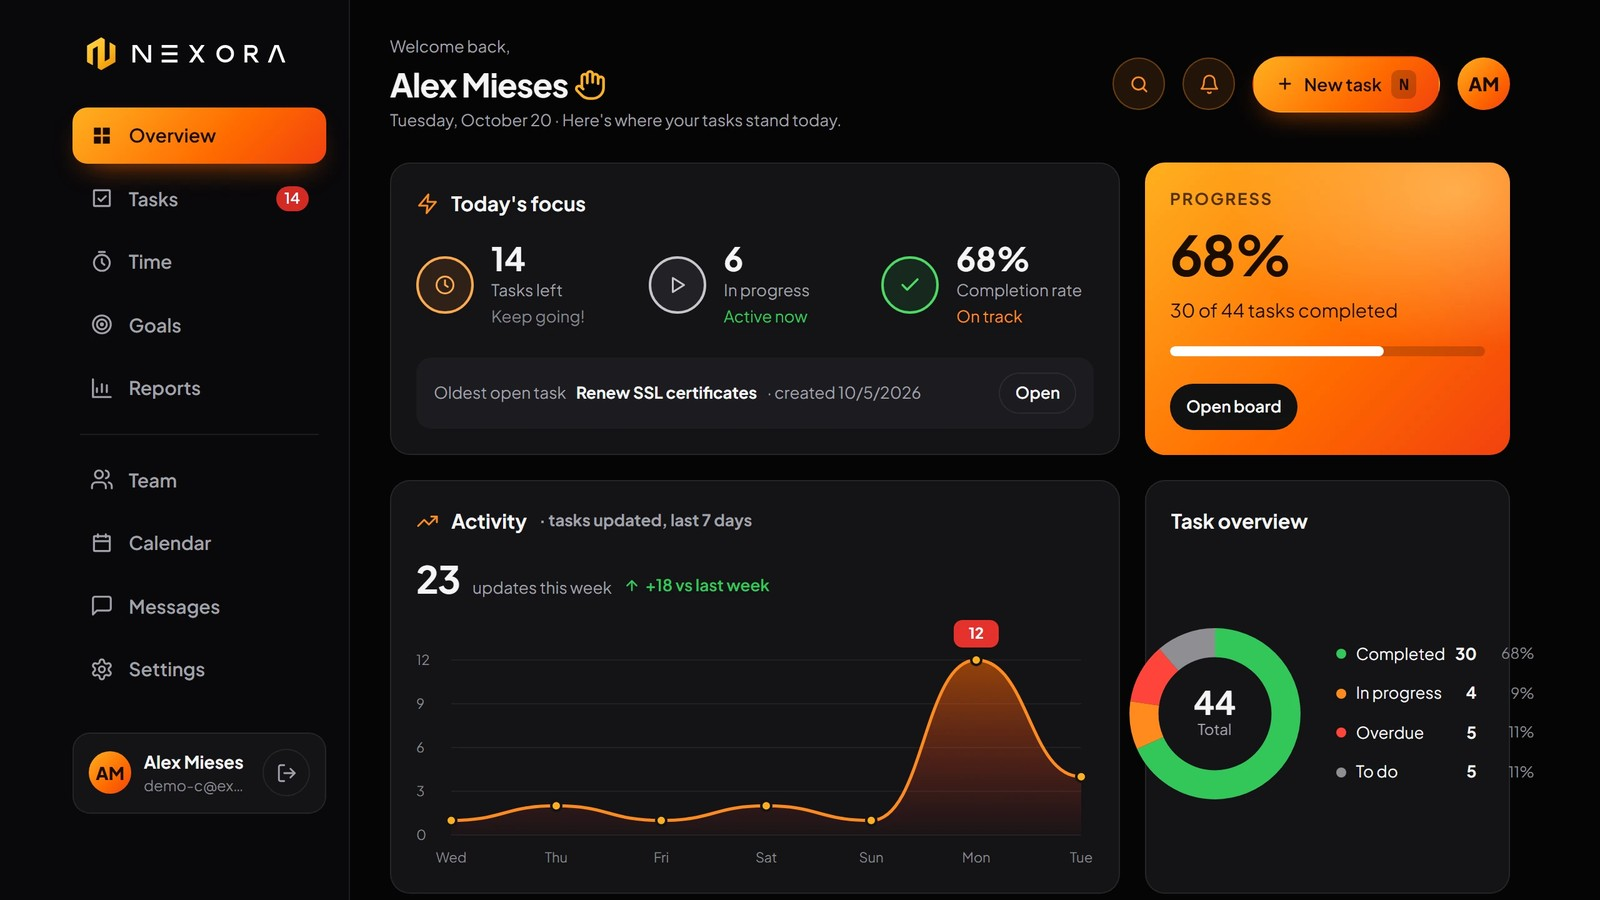
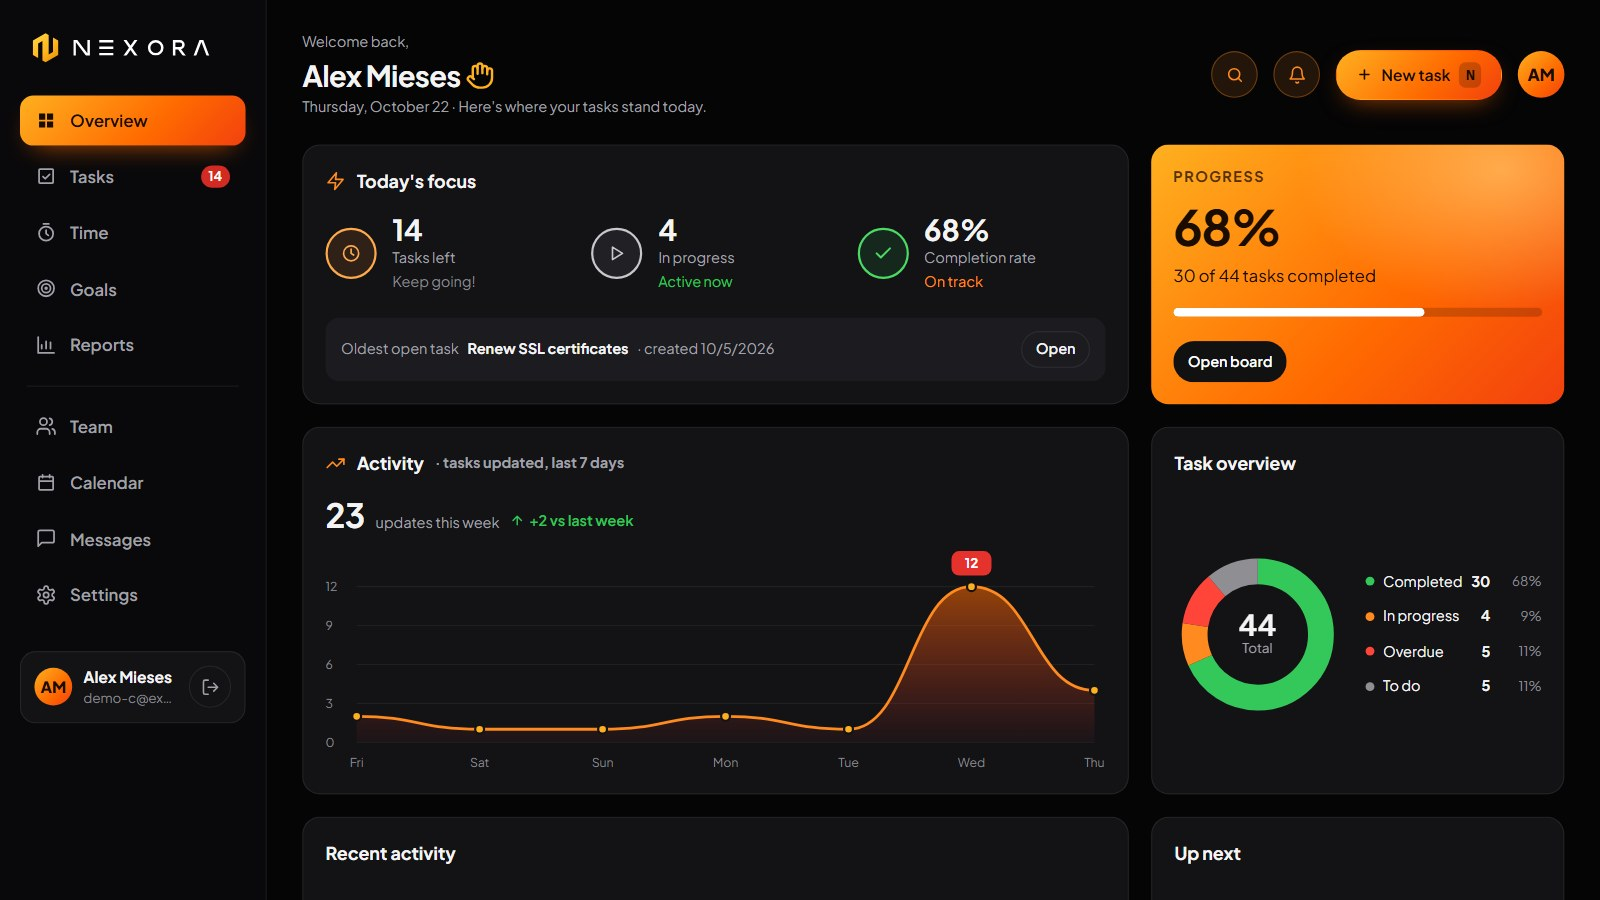
Give NEXORA its own row and refresh its screenshot
As the third card in the right column, NEXORA left an ~850px gap under
FanClash on desktop. It now sits in a full-width row below, with the
image under FanClash and the description under the right column, 96px
below Live Docs so the descriptions don't run together.

The screenshot is recaptured from the live dashboard after fixing its
Task overview panel, whose donut and percentages spilled out of the card.

diff --git a/src/sections/ShowcaseSection.jsx b/src/sections/ShowcaseSection.jsx
@@ -205,45 +205,46 @@ const AppShowcase = () => {
                 </a>
               </div>
             </div>
+          </div>
+        </div>
 
-            <div className="project" ref={nexoraRef}>
-              <div className="image-wrapper p-0 xl:h-auto xl:aspect-video">
-                <img
-                  src="/images/nexora-card.jpg"
-                  alt="NEXORA Task Manager Dashboard"
-                  className="max-w-full max-h-full object-contain"
-                />
-              </div>
-              <h2>
-                NEXORA - Full-Stack Task Manager for Teams
-              </h2>
-              <p className="text-white-50 text-base md:text-lg leading-relaxed">
-                NEXORA takes every task from idea to done: a kanban board with enforced status rules, a calendar, reports with CSV export, focus timers and goals, plus team invites, roles, and chat. The FastAPI and PostgreSQL backend keeps every task private to its owner, and an 81-test pytest suite runs in CI.
-              </p>
-              <div className="flex flex-wrap gap-2 mt-3">
-                <span className="bg-black-200 py-1 px-3 rounded-full text-xs flex items-center gap-1.5">
-                  <img src="/images/logos/python.svg" alt="" className="w-4 h-4" />
-                  Python
-                </span>
-                <span className="bg-black-200 py-1 px-3 rounded-full text-xs flex items-center gap-1.5">
-                  <img src="https://raw.githubusercontent.com/devicons/devicon/master/icons/fastapi/fastapi-original.svg" alt="" className="w-4 h-4" />
-                  FastAPI
-                </span>
-                <span className="bg-black-200 py-1 px-3 rounded-full text-xs flex items-center gap-1.5">
-                  <img src="https://raw.githubusercontent.com/devicons/devicon/master/icons/postgresql/postgresql-original.svg" alt="" className="w-4 h-4" />
-                  PostgreSQL
-                </span>
-              </div>
-              <div className="flex gap-4 mt-4">
-                <a href={projectLinks.nexora.github} target="_blank" rel="noopener noreferrer" className="flex items-center gap-2 text-white-50 hover:text-white transition-colors">
-                  <img src="/images/logos/github.svg" alt="GitHub" className="w-6 h-6" />
-                  <span>GitHub</span>
-                </a>
-                <a href={projectLinks.nexora.vercel} target="_blank" rel="noopener noreferrer" className="flex items-center gap-2 text-white-50 hover:text-white transition-colors">
-                  <img src="/images/logos/vercel-circle.svg" alt="Vercel" className="w-6 h-6" />
-                  <span>Vercel</span>
-                </a>
-              </div>
+        <div ref={nexoraRef} className="wide-project">
+          <div className="image-wrapper">
+            <img
+              src="/images/nexora-card.jpg"
+              alt="NEXORA Task Manager Dashboard"
+            />
+          </div>
+          <div className="text-content">
+            <h2>
+              NEXORA - Full-Stack Task Manager for Teams
+            </h2>
+            <p className="text-white-50 text-base md:text-lg leading-relaxed">
+              NEXORA takes every task from idea to done: a kanban board with enforced status rules, a calendar, reports with CSV export, focus timers and goals, plus team invites, roles, and chat. The FastAPI and PostgreSQL backend keeps every task private to its owner, and an 81-test pytest suite runs in CI.
+            </p>
+            <div className="flex flex-wrap gap-2 mt-3">
+              <span className="bg-black-200 py-1 px-3 rounded-full text-xs flex items-center gap-1.5">
+                <img src="/images/logos/python.svg" alt="" className="w-4 h-4" />
+                Python
+              </span>
+              <span className="bg-black-200 py-1 px-3 rounded-full text-xs flex items-center gap-1.5">
+                <img src="https://raw.githubusercontent.com/devicons/devicon/master/icons/fastapi/fastapi-original.svg" alt="" className="w-4 h-4" />
+                FastAPI
+              </span>
+              <span className="bg-black-200 py-1 px-3 rounded-full text-xs flex items-center gap-1.5">
+                <img src="https://raw.githubusercontent.com/devicons/devicon/master/icons/postgresql/postgresql-original.svg" alt="" className="w-4 h-4" />
+                PostgreSQL
+              </span>
+            </div>
+            <div className="flex gap-4 mt-4">
+              <a href={projectLinks.nexora.github} target="_blank" rel="noopener noreferrer" className="flex items-center gap-2 text-white-50 hover:text-white transition-colors">
+                <img src="/images/logos/github.svg" alt="GitHub" className="w-6 h-6" />
+                <span>GitHub</span>
+              </a>
+              <a href={projectLinks.nexora.vercel} target="_blank" rel="noopener noreferrer" className="flex items-center gap-2 text-white-50 hover:text-white transition-colors">
+                <img src="/images/logos/vercel-circle.svg" alt="Vercel" className="w-6 h-6" />
+                <span>Vercel</span>
+              </a>
             </div>
           </div>
         </div>

diff --git a/src/index.css b/src/index.css
@@ -239,6 +239,26 @@ section {
         @apply text-base md:text-xl lg:text-2xl font-semibold mt-3 md:mt-5;
       }
     }
+
+    .wide-project {
+      @apply flex xl:flex-row flex-col gap-3 md:gap-5 xl:gap-10 justify-between mt-6 md:mt-10 xl:mt-24;
+
+      .image-wrapper {
+        @apply xl:w-[60%] aspect-video rounded-xl overflow-hidden;
+
+        img {
+          @apply w-full h-full object-contain rounded-xl;
+        }
+      }
+
+      .text-content {
+        @apply xl:w-[40%];
+
+        h2 {
+          @apply text-base md:text-xl lg:text-2xl font-semibold;
+        }
+      }
+    }
   }
 
   .cta-wrapper {
